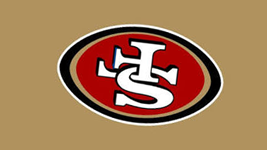
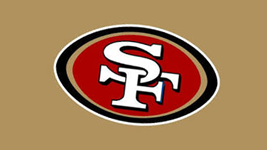
Update
Updated study-notes.html and added screenshots; updated stylesheet and media queries.

Changed region(s): [[0.1798, 0.16, 0.839, 0.8533]]

diff --git a/study-notes.html b/study-notes.html
@@ -277,7 +277,7 @@
         </td>
         <td>
           It's visually pleasing and communicates to the user professionalism
-          and care was taken in creating this web page.
+          and care was taken in creating this webpage.
         </td>
         <td>
           Not visible with CSS disable and not needed for the site to function
@@ -390,41 +390,108 @@
           All links, buttons, and input elements are focusable with the keyboard
           and function properly when the enter key or the spacebar is used.
         </td>
-        <td>No repair needed</td>
+        <td>No repair needed.</td>
       </tr>
       <tr>
         <td>Pointer and no hover-only information</td>
-        <td>[Response]</td>
-        <td>[Response]</td>
+        <td>
+          All buttons and inputs/checkboxes are clearly labeled. Button to open
+          disclosure to view terms & conditions is labeled "Open Terms", button
+          to submit vote is labeled "Vote", and the legend for the fieldset that
+          contains the selections reads "Which football team is your favorite?"
+          with the selections themselves being clearly marked. The on and off
+          buttons for the radio player animation are clearly labeled "ON" and
+          "OFF". No hovering with the mouse is required for any of these
+          elements.
+        </td>
+        <td>No repair needed.</td>
       </tr>
       <tr>
         <td>Reduced motion</td>
-        <td>[Response]</td>
-        <td>[Response]</td>
+        <td>
+          With animations disabled the display of the radio animation reads
+          "WELCOME &bull; Football Live Player" alerting the user that the radio
+          would play (if it was a fully functioning audio player) football
+          related audio content.
+        </td>
+        <td>No repair needed.</td>
       </tr>
       <tr>
         <td>Narrow width and 200% zoom</td>
         <td>
-          At 320px, 768px, 1280px and 200% zoom there is no crowding or overflow
-          and the site functions as intended.
+          At 320px, 768px, 1280px there is no crowding or overflow and the site
+          functions as intended. Except at 200% zoom the
+          <code>.radio-display</code> element on the animation is partially
+          hidden by the <code>.controls</code> element. Edit: after further
+          review, I noticed that the text in the selection elements to choose a
+          football team was too crowded and flowing over the bacground images.
         </td>
-        <td>No repair needed</td>
+        <td>
+          Fix 1: added a media query @ 1000px width that reduces the width of
+          <code>.radio-display</code> to 450px wide and reduces the font-size to
+          16px or 1rem.<br />
+          Fix 2: in the media query for small screens, I reduced the width of
+          <code>.choice-help</code> to <code>70%</code> and reduced the
+          <code>font-size</code> in the <code>.choice-title</code> element to
+          <code>0.9rem</code>.
+        </td>
       </tr>
       <tr>
         <td>Effects/CSS unavailable</td>
-        <td>[Response]</td>
-        <td>[Response]</td>
+        <td>
+          With CSS disabled all content, links, and headings are displayed in a
+          logical order from top to bottom and the site functions as intended.
+          CSS effects are not required for the site to function.
+        </td>
+        <td>No repair needed.</td>
       </tr>
       <tr>
         <td>Performance recording</td>
-        <td>[Response]</td>
-        <td>[Response]</td>
+        <td>
+          <ul>
+            <li>Largest contentful paint (LCP) is "good" at 0.46s</li>
+            <li>Cumulative layout shift (CLS) is rated "good" at 0.00</li>
+            <li>Interaction to next paint (INP) is rated "good" at 0 ms</li>
+          </ul>
+          <p>
+            I did a recording/test where I scrolled the page, click on every
+            button and selection/input and activated the animation. Results of
+            the test were good - "Passed insights (18/18)"
+          </p>
+        </td>
+        <td>No repairs needed.</td>
       </tr>
     </table>
     <p>
-      <strong>Screenshot filenames and what each proves:</strong> [Response]
+      <strong>Screenshot filenames and what each proves:</strong>
     </p>
-    <p><strong>Repair and retest summary:</strong> [Response]</p>
+    <ol>
+      <li>
+        <code>performance-recording.png</code> is a snapshot of the performance
+        test ran in Google Chrome dev tools and shows that the webpage passed
+        the tests (insights).
+      </li>
+      <li>
+        <code>320px01.png</code>, <code>320px02.png</code>, and
+        <code>320px03.png</code> show that webpage fits with no crowding or
+        overflows at narrow width 320 pixels.
+      </li>
+      <li>
+        <code>200z01.png</code>, <code>200z02.png</code>,
+        <code>200z03.png</code> show that the webpage fits and functions at
+        different viewport widths.
+      </li>
+    </ol>
+    <p>
+      <strong>Repair and retest summary:</strong> One repair that was needed was
+      to fix the <code>.radio-display</code> element from being partially hidden
+      by the <code>.controls</code> element with the browser window at 200%
+      zoom. To do this I added a media query that specifies at 1000px width the
+      <code>.radio-display</code> element's <code>max-width</code> should be
+      450px and the <code>font-size</code> should be 1rem. Changing the
+      <code>max-width</code> fixed the issue, as evidenced by the
+      <code>200z03.png</code> screenshot.
+    </p>
     <h2>6. AI disclosure</h2>
     <p><strong>Tool and purpose, or none:</strong> None</p>
     <p><strong>Prompt/task:</strong> None</p>

diff --git a/index.html b/index.html
@@ -52,7 +52,7 @@
           <div class="choice3">
             <input type="radio" name="option" id="option-c" /><label
               for="option-c"
-              ><span class="choice-title">Santa Clara 49ers</span
+              ><span class="choice-title">San Francisco 49ers</span
               ><span class="choice-help"
                 >Newby Island Landfill &bull; Bay Area, CA &bull; NFC West</span
               ></label

diff --git a/styles.css b/styles.css
@@ -511,7 +511,22 @@ footer {
   }
 }
 
-@media (max-width: 768px) {
+@media (max-width: 1000px) {
+  .radio-display {
+    max-width: 450px;
+  }
+  .text-animation {
+    font-size: var(--size-base);
+  }
+}
+
+@media (max-width: 48rem) {
+  .choice-title {
+    font-size: 0.9rem;
+  }
+  .choice-help {
+    max-width: 70%;
+  }
   .animation-group {
     left: 0;
     position: relative;
